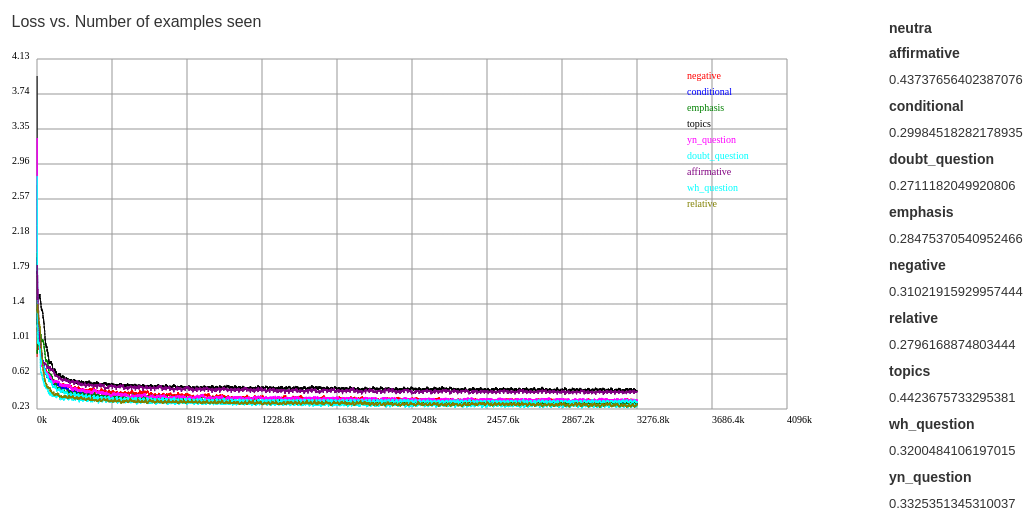
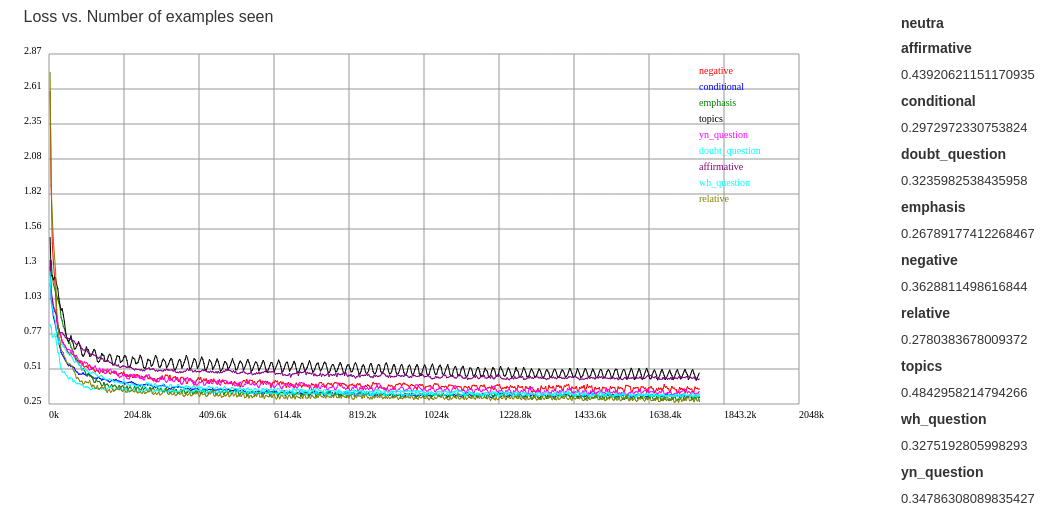
Experiment Results

Changed region(s): [[0.0, 0.0916, 0.8062, 0.8244], [0.8372, 0.0305, 0.9922, 0.9771], [0.0, 0.0, 0.2481, 0.0611]]

diff --git a/webapp/js/FERecognizer.js b/webapp/js/FERecognizer.js
@@ -286,7 +286,7 @@ function load_and_step() {
   }
   
 
-  if (step_num % 1500 === 0) {
+  if (step_num % 3000 === 0) {
     for (var i = 0; i < legend.length; i++) {
       if (lossWindows[i].get_average() != -1) {
         losses.push(lossWindows[i].get_average());
